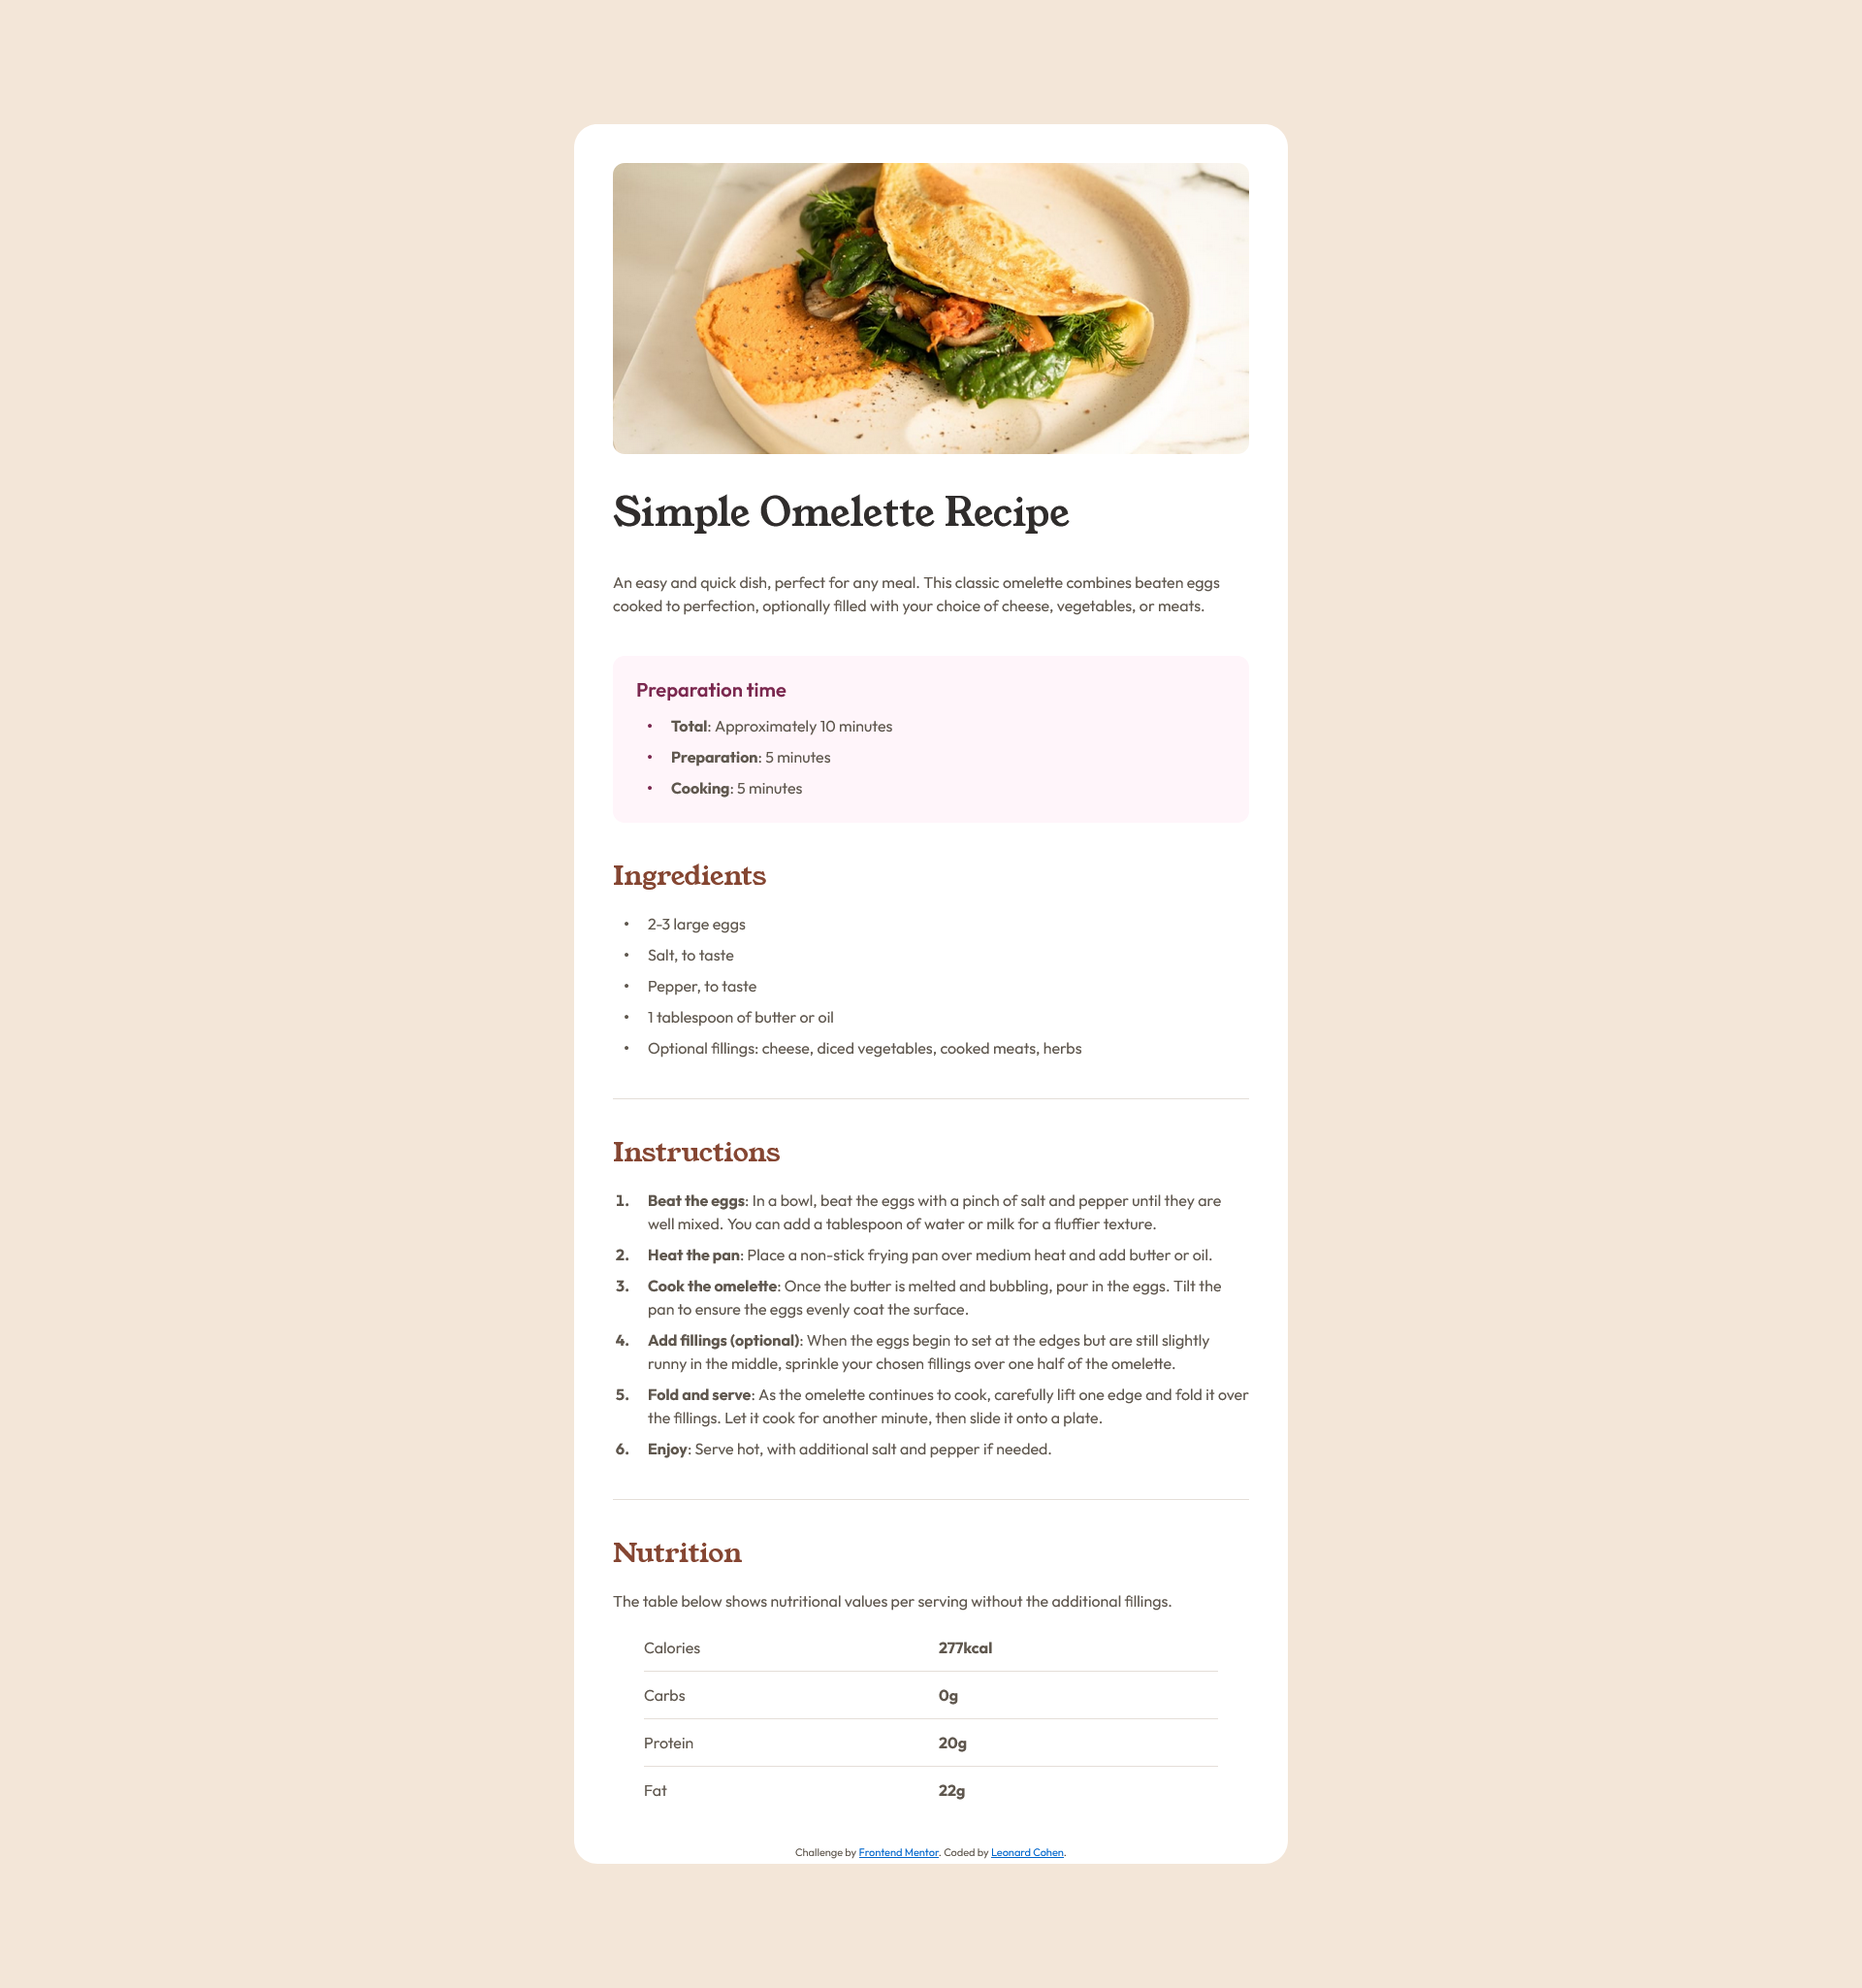
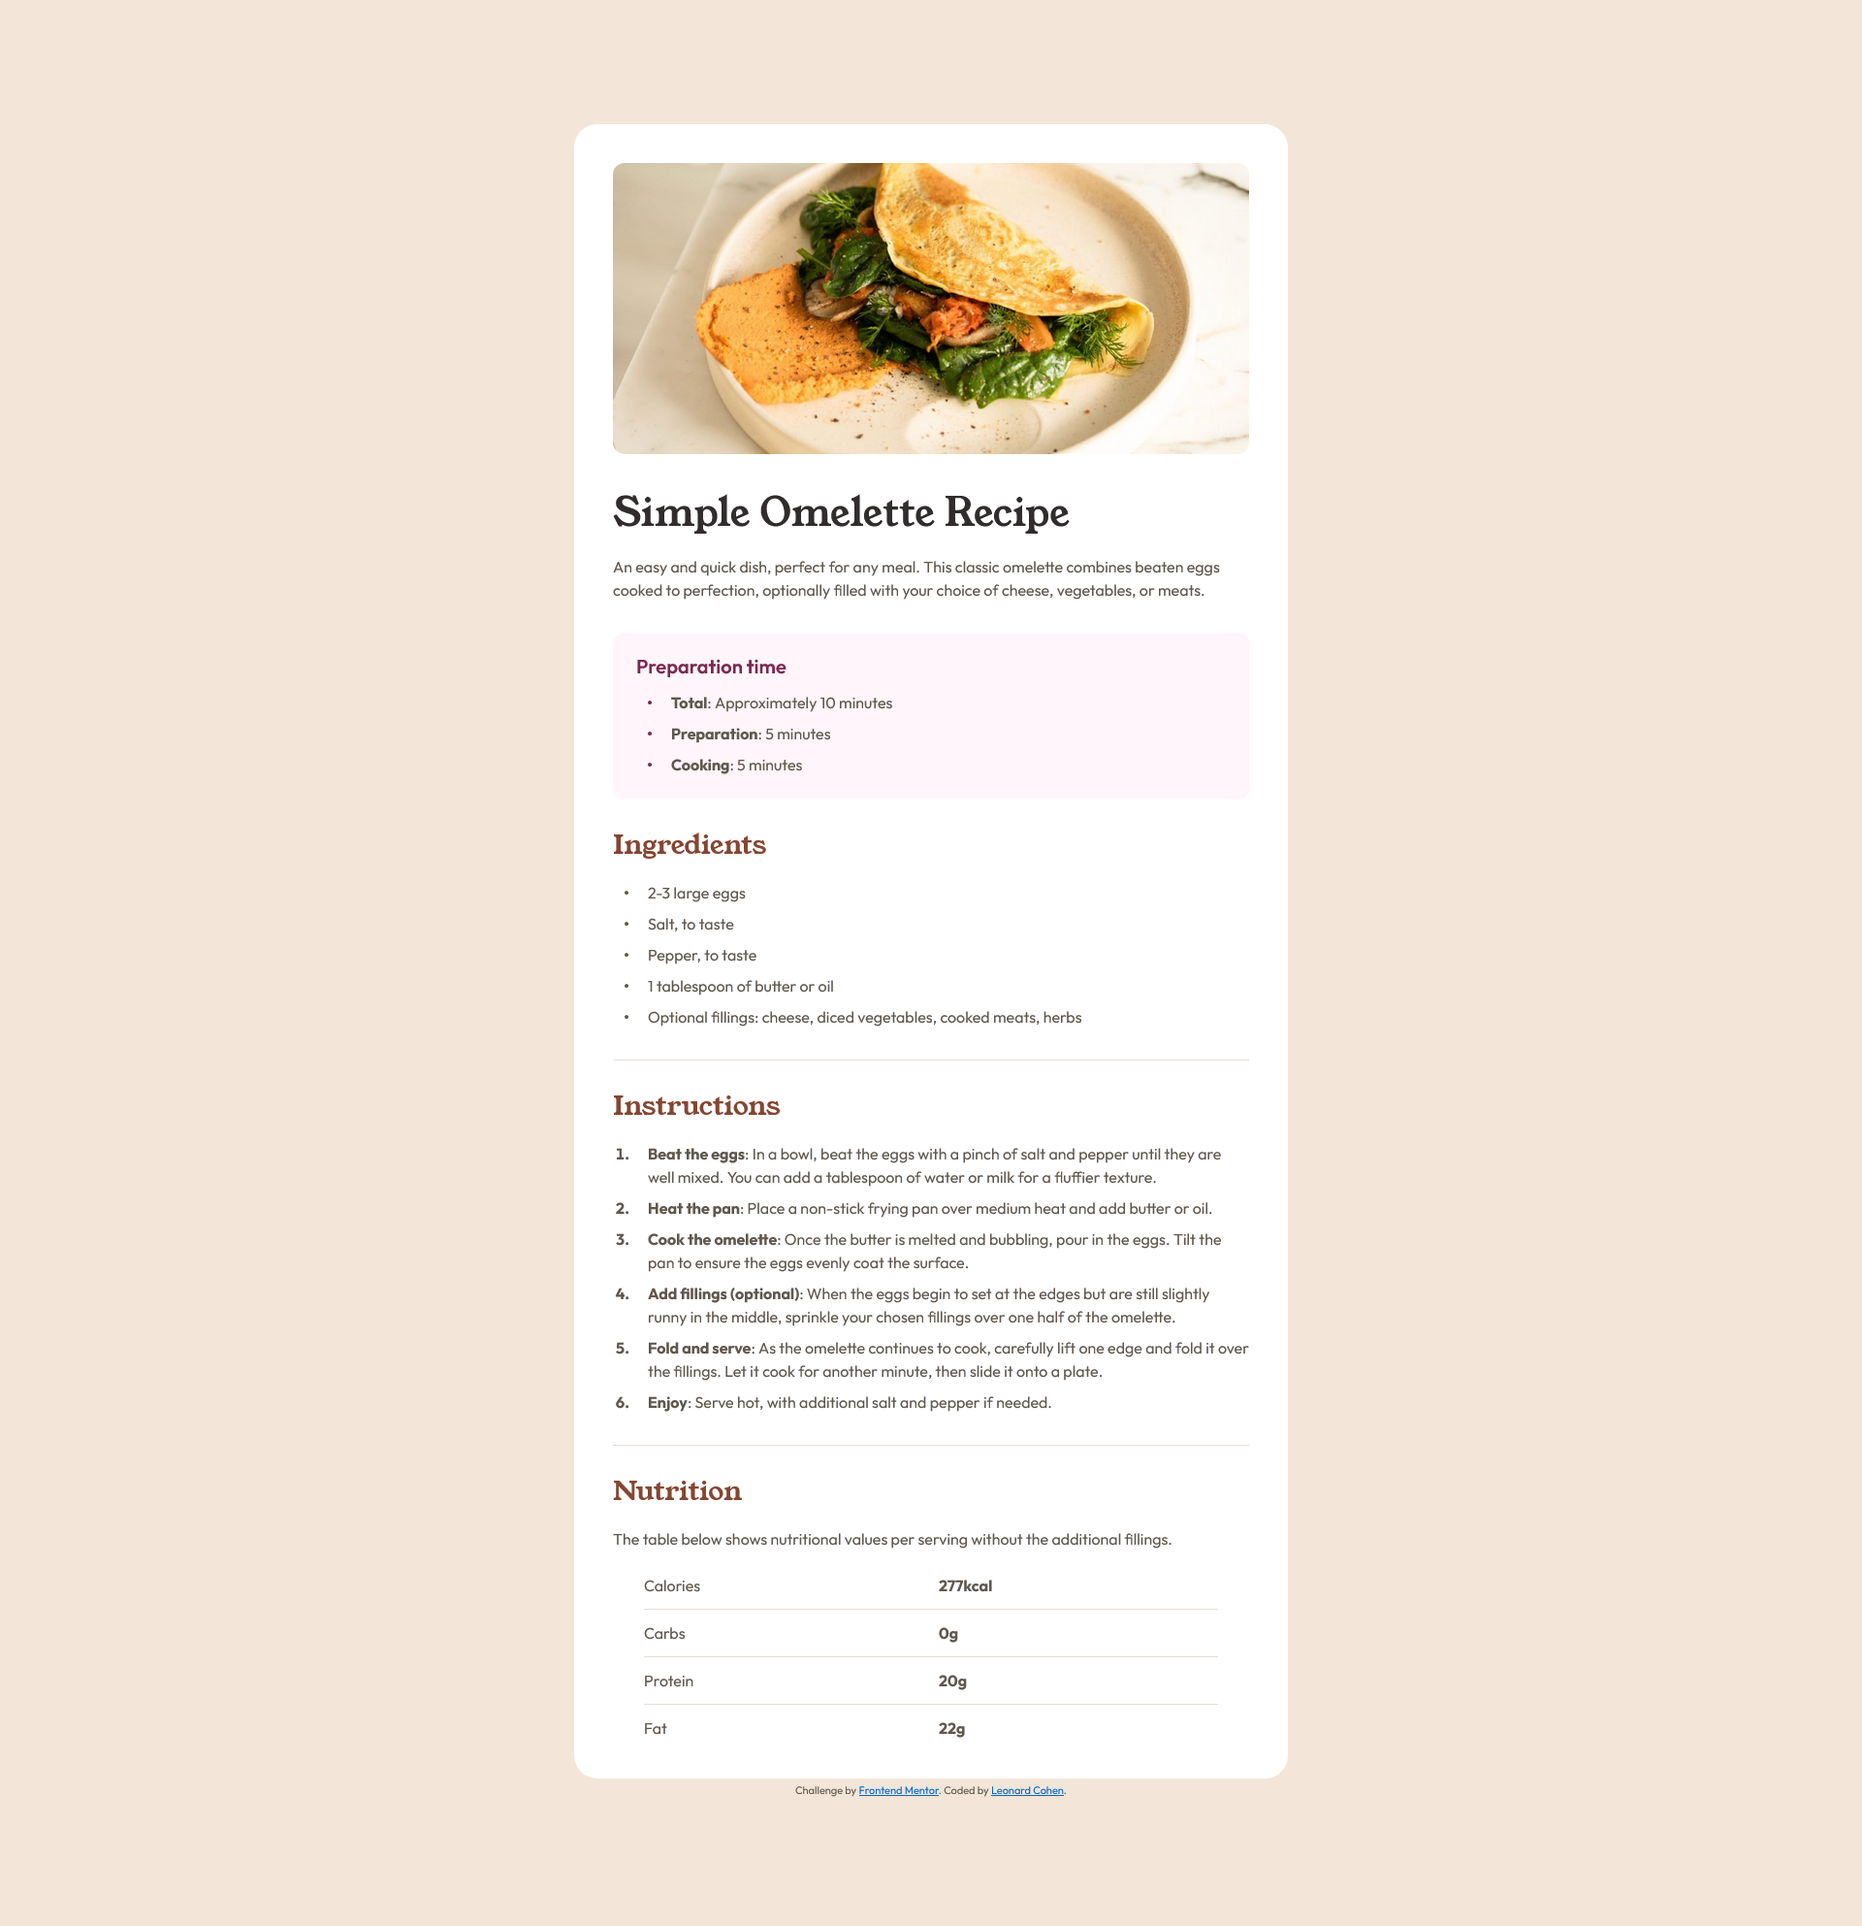
Fixed HTML and accessibility issues and made minor adjustments to page layout.

diff --git a/index.html b/index.html
@@ -16,83 +16,85 @@
 </head>
 
 <body>
-    <article>
-        <header>
-            <img class="top-image" src="./assets/images/image-omelette.jpeg" alt="" width="1312" height="600" />
-            <h1>Simple Omelette Recipe</h1>
-        </header>
-        <main>
-            <p>
-                An easy and quick dish, perfect for any meal. This classic omelette combines beaten eggs cooked
-                to perfection, optionally filled with your choice of cheese, vegetables, or meats.
-            </p>
-            <section class="preparation-section">
-                <h2>Preparation time</h2>
-                <ul>
-                    <li><b>Total</b>: Approximately 10 minutes</li>
-                    <li><b>Preparation</b>: 5 minutes</li>
-                    <li><b>Cooking</b>: 5 minutes</li>
-                </ul>
-            </section>
-            <section>
-                <h2>Ingredients</h2>
-                <ul>
-                    <li>2-3 large eggs</li>
-                    <li>Salt, to taste</li>
-                    <li>Pepper, to taste</li>
-                    <li>1 tablespoon of butter or oil</li>
-                    <li>Optional fillings: cheese, diced vegetables, cooked meats, herbs</li>
-                </ul>
-            </section>
-            <hr />
-            <section>
-                <h2>Instructions</h2>
-                <ol>
-                    <li>
-                        <b>Beat the eggs</b>: In a bowl, beat the eggs with a pinch of salt and pepper until they are well mixed.
-                        You can add a tablespoon of water or milk for a fluffier texture.
-                    </li>
-                    <li>
-                        <b>Heat the pan</b>: Place a non-stick frying pan over medium heat and add butter or oil.
-                    </li>
-                    <li>
-                        <b>Cook the omelette</b>: Once the butter is melted and bubbling, pour in the eggs. Tilt the pan to ensure
-                        the eggs evenly coat the surface.
-                    </li>
-                    <li>
-                        <b>Add fillings (optional)</b>: When the eggs begin to set at the edges but are still slightly runny in the
-                        middle, sprinkle your chosen fillings over one half of the omelette.
-                    </li>
-                    <li>
-                        <b>Fold and serve</b>: As the omelette continues to cook, carefully lift one edge and fold it over the
-                        fillings. Let it cook for another minute, then slide it onto a plate.
-                    </li>
-                    <li>
-                        <b>Enjoy</b>: Serve hot, with additional salt and pepper if needed.
-                    </li>
-                </ol>
-            </section>
-            <hr />
-            <section>
-                <h2>Nutrition</h2>
-                <p>The table below shows nutritional values per serving without the additional fillings.</p>
-                <dl>
-                    <dt>Calories</dt>
-                    <dd>277kcal</dd>
-                    <dt>Carbs</dt>
-                    <dd>0g</dd>
-                    <dt>Protein</dt>
-                    <dd>20g</dd>
-                    <dt>Fat</dt>
-                    <dd>22g</dd>
-                </dl>
-            </section>
-        </main>
-        <footer>
-            Challenge by <a href="https://www.frontendmentor.io?ref=challenge" target="_blank">Frontend Mentor</a>.
-            Coded by <a href="https://www.frontendmentor.io/profile/lenny131">Leonard Cohen</a>.
-        </footer>
-    </article>
+    <main>
+        <article>
+            <header>
+                <img class="top-image" src="./assets/images/image-omelette.jpeg" alt="Omelette with a variety of fillings" width="1312" height="600" />
+                <h1>Simple Omelette Recipe</h1>
+            </header>
+            <div class="article-content">
+                <p>
+                    An easy and quick dish, perfect for any meal. This classic omelette combines beaten eggs cooked
+                    to perfection, optionally filled with your choice of cheese, vegetables, or meats.
+                </p>
+                <section class="preparation-section">
+                    <h2>Preparation time</h2>
+                    <ul>
+                        <li><b>Total</b>: Approximately 10 minutes</li>
+                        <li><b>Preparation</b>: 5 minutes</li>
+                        <li><b>Cooking</b>: 5 minutes</li>
+                    </ul>
+                </section>
+                <section>
+                    <h2>Ingredients</h2>
+                    <ul>
+                        <li>2-3 large eggs</li>
+                        <li>Salt, to taste</li>
+                        <li>Pepper, to taste</li>
+                        <li>1 tablespoon of butter or oil</li>
+                        <li>Optional fillings: cheese, diced vegetables, cooked meats, herbs</li>
+                    </ul>
+                </section>
+                <hr />
+                <section>
+                    <h2>Instructions</h2>
+                    <ol>
+                        <li>
+                            <b>Beat the eggs</b>: In a bowl, beat the eggs with a pinch of salt and pepper until they are well mixed.
+                            You can add a tablespoon of water or milk for a fluffier texture.
+                        </li>
+                        <li>
+                            <b>Heat the pan</b>: Place a non-stick frying pan over medium heat and add butter or oil.
+                        </li>
+                        <li>
+                            <b>Cook the omelette</b>: Once the butter is melted and bubbling, pour in the eggs. Tilt the pan to ensure
+                            the eggs evenly coat the surface.
+                        </li>
+                        <li>
+                            <b>Add fillings (optional)</b>: When the eggs begin to set at the edges but are still slightly runny in the
+                            middle, sprinkle your chosen fillings over one half of the omelette.
+                        </li>
+                        <li>
+                            <b>Fold and serve</b>: As the omelette continues to cook, carefully lift one edge and fold it over the
+                            fillings. Let it cook for another minute, then slide it onto a plate.
+                        </li>
+                        <li>
+                            <b>Enjoy</b>: Serve hot, with additional salt and pepper if needed.
+                        </li>
+                    </ol>
+                </section>
+                <hr />
+                <section>
+                    <h2>Nutrition</h2>
+                    <p>The table below shows nutritional values per serving without the additional fillings.</p>
+                    <dl>
+                        <dt>Calories</dt>
+                        <dd>277kcal</dd>
+                        <dt>Carbs</dt>
+                        <dd>0g</dd>
+                        <dt>Protein</dt>
+                        <dd>20g</dd>
+                        <dt>Fat</dt>
+                        <dd>22g</dd>
+                    </dl>
+                </section>
+            </div>
+        </article>
+    </main>
+    <footer>
+        Challenge by <a href="https://www.frontendmentor.io?ref=challenge" target="_blank">Frontend Mentor</a>.
+        Coded by <a href="https://www.frontendmentor.io/profile/lenny131">Leonard Cohen</a>.
+    </footer>
 </body>
 
 </html>

diff --git a/css/main.css b/css/main.css
@@ -240,14 +240,13 @@ article {
     margin: auto;
 }
 
-main {
-    flex-grow: 1;
+.article-content {
     display: flex;
     flex-direction: column;
     gap: var(--spacing-400);
     padding-left: var(--spacing-400);
     padding-right: var(--spacing-400);
-    padding-top: var(--spacing-500);
+    padding-top: var(--spacing-300);
     padding-bottom: var(--spacing-500);
 }
 
@@ -321,8 +320,7 @@ footer {
         margin-right: 0;
     }
 
-    main {
-        gap: var(--spacing-500);
+    .article-content {
         padding-left: var(--spacing-500);
         padding-right: var(--spacing-500);
     }

diff --git a/README.md b/README.md
@@ -37,7 +37,7 @@ One of the primary goals of this project was to use semantic HTML for all elemen
 
 Styling the lists was somewhat challenging. The bullet points are normally placed outside the left margin of the `<ul>` or `<ol>` element. Setting the `list-style-position` property to `inside` would solve this problem, except this causes multi-line text to wrap around the bullet. I decided to add some left-side padding instead.
 
-Regarding the top image, I decided to leave the alt text blank. It's unclear whether this image should be considered purely decoratave, but it doesn't seem to provide any additional information. If it were not immediately followed by the heading "Simple Omelette Recipe", plus the additional text describing the omelette, then I would have provided some alt text, such as "Omelette with a variety of fillings".
+Regarding the top image, I considered leaving the alt text blank, but it's unclear if this image should be considered purely decoratave, and after some slight html layout changes it wouldn't benifit from the paragraph description of the recipe. (Although, it's possible that the h1 heading still provides enough information to the user to justify removing the alt text.) Ultimately, I decided to include the alt text to be safe.
 
 ### Continued development
 
